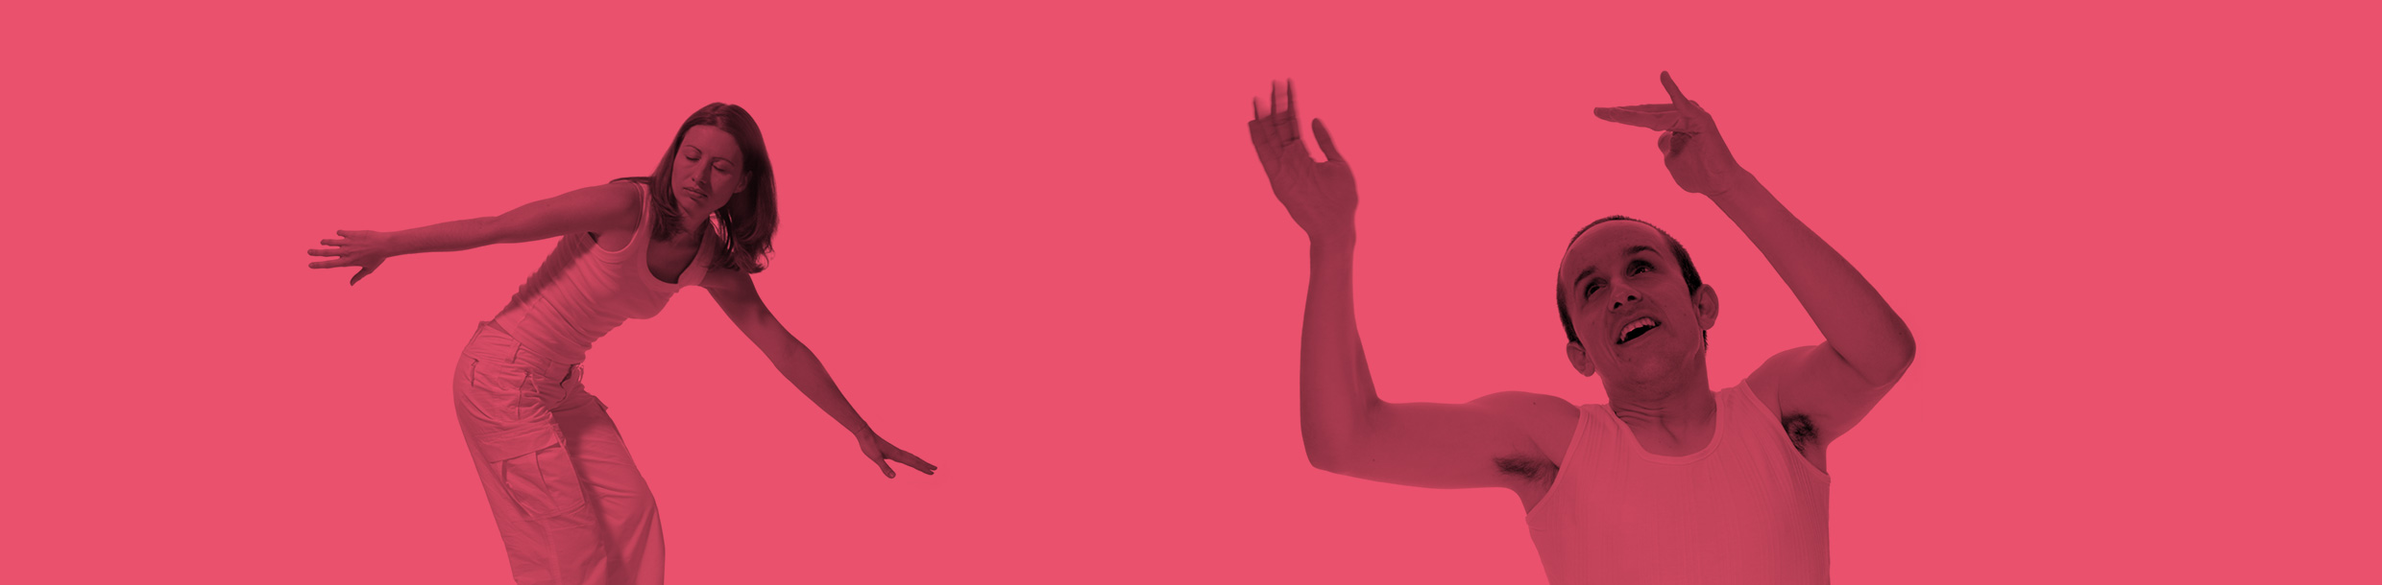
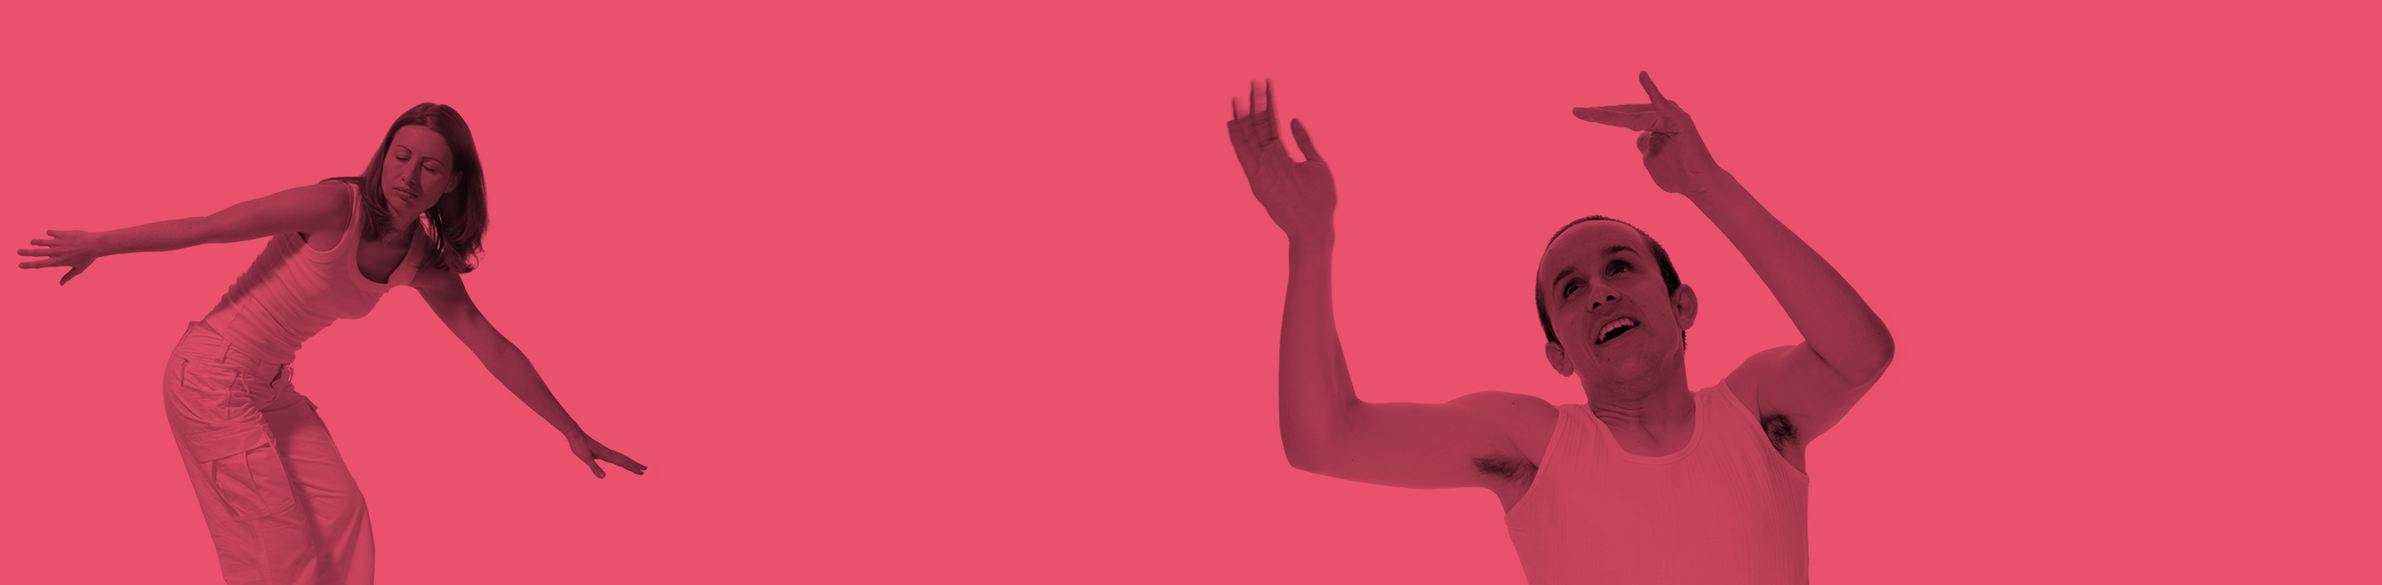
Replace header images

Changed region(s): [[0.0, 0.1557, 0.4036, 1.0], [0.4968, 0.1246, 0.8073, 1.0], [0.5589, 0.8098, 0.5899, 0.841]]

diff --git a/docs/css/main.css b/docs/css/main.css
@@ -1,1 +1,1 @@
-body{font-family:"CartographSansCF-DemiBold",Helvetica,Arial,sans-serif;line-height:1.25;color:#EA516D}@media (min-width: 1200px){body{line-height:1.5}}h1,h2{font-family:"CartographSansCF-Bold",Helvetica,Arial,sans-serif}h1{font-size:1.75rem;line-height:1.25}@media (min-width: 600px){h1{font-size:2.5rem;line-height:1.2}}h2,.h2{font-size:1.25rem;line-height:1}@media (min-width: 600px){h2,.h2{font-size:1.5rem}}@media (min-width: 1200px){h2,.h2{font-size:2rem}}h3,.h3{font-size:1rem;line-height:1.25}@media (min-width: 1200px){h3,.h3{font-size:1.5rem;line-height:1.33333}}.production p,.production li{font-family:"CartographSansCF-Regular",Helvetica,Arial,sans-serif}.production blockquote{margin-left:1em;margin-right:1em}.production h4{margin-bottom:0}.production h4+p{margin-top:0}.production__main>p:first-child{font-family:"CartographSansCF-DemiBold",Helvetica,Arial,sans-serif}@media (min-width: 1200px){.production__main>p:first-child{font-size:1.5rem}}.h3--nbm{margin-bottom:0}.h3--nbm a{border-bottom:0}.h3--nbm+p{margin-top:0}.light{font-family:"CartographSansCF-Regular",Helvetica,Arial,sans-serif}.small{font-size:.75rem;line-height:1.66667}a{padding-bottom:.1em;text-decoration:none;border-bottom:2px solid;color:#EA516D}a:hover{color:#000}.small a,.light a,a.small,a.light{border-bottom-width:1px}.t-2 a{color:#fff}.t-2 a:hover{color:#000}.t-3 a{color:#fff}.t-3 a:hover{color:#fff;border-color:#EA516D}blockquote{margin-left:0}.sitemap{margin-bottom:.5em}@media (min-width: 600px){.sitemap{margin-top:.5em}}img{border-radius:.3rem}body{margin:0;padding:0}.respect-line-breaks{white-space:pre-line}.list-reset{margin:0;padding:0;list-style-type:none}.btn{padding:.4em .75em;border-radius:.25em;font-weight:bold;text-decoration:none;display:inline-block;border-style:solid;border-width:2px;color:#fff;border-color:#EA516D;background-color:#EA516D}.btn:hover{color:#fff;background-color:#000;border-color:#000}.btn--alt{color:#EA516D;border-color:#EA516D;background-color:#fff}.btn--alt:hover{color:#fff;background-color:#EA516D;border-color:#EA516D}@media (min-width: 600px){.btn--donate{margin-top:5rem}}.t-2 .btn{color:#EA516D;background-color:#fff;border-color:#fff}.t-2 .btn:hover{color:#fff;background-color:#000;border-color:#000}.t-2 .btn--alt{color:#fff;border-color:#fff;background-color:#EA516D}.t-2 .btn--alt:hover{color:#EA516D;background-color:#fff;border-color:#fff}.t-3 .btn{border-color:#EA516D}.t-3 .btn:hover{color:#000;background-color:#fff;border-color:#fff}.t-3 .btn--alt{color:#fff;border-color:#fff;background-color:#000}.row{padding:1.25rem 2.5rem}@media (min-width: 1200px){.row{max-width:1200px;margin:0 auto}}.row--thick{padding:2.5rem 2.5rem 1.25rem}@media (min-width: 1200px){.row--thick{max-width:1200px;margin:0 auto}}.row--thin{padding:0;margin:0 2.5rem}@media (min-width: 1200px){.row--thin{max-width:1200px;margin:0 auto}}.t-1{color:#EA516D;background-color:#fff}.decorate{border-style:solid;border-width:0 0 70px 0;border-image-source:url("../assets/svg/border-coral.svg");border-image-slice:0 70 140 70;border-image-repeat:repeat}.t-2{color:#fff;background:#EA516D}@media (min-width: 1200px){.t-2{position:relative}.t-2:before{content:"";position:absolute;top:0;bottom:0;left:-9999px;right:0;border-left:9999px solid #EA516D;box-shadow:9999px 0 0 #EA516D;z-index:-1}}.t-3{color:#fff;background-color:#000}@media (min-width: 1200px){.t-3{position:relative}.t-3:before{content:"";position:absolute;top:0;bottom:0;left:-9999px;right:0;border-left:9999px solid #000;box-shadow:9999px 0 0 #000;z-index:-1}}#map{width:100%;height:500px;background-color:#000}.nav__toggle{background-color:#000;color:#fff;margin-left:-2.5rem;margin-right:-2.5rem;padding:.5rem 2.5rem;display:block;border-bottom:none;cursor:pointer}.nav__toggle svg{width:1em;height:1.5em;fill:#fff}.nav__toggle:hover{border-bottom:none}.nav__label{text-transform:uppercase;display:inline-block;vertical-align:top;padding-left:.5em;padding-top:.1em}.nav__menu{margin-top:1rem;font-size:1.5rem;line-height:2;font-family:"CartographSansCF-DemiBold",Helvetica,Arial,sans-serif}.nav__menu li{border-bottom:2px solid #EA516D}.nav__menu li:hover{background-color:#EA516D}@media (min-width: 900px){.nav__menu li:hover{background-color:transparent}}.nav__menu li:hover a{color:#fff}@media (min-width: 900px){.nav__menu li:hover a{border-bottom-color:#EA516D}}.nav__menu li.nav__item--last{border-bottom:none}.nav__menu a{border-bottom:none;display:inline-block;width:100%}.nav--hidden{display:none}.nav--visible{display:block}@media (min-width: 900px){.nav{background-color:#000;padding-top:1em;padding-bottom:1em;margin-left:-2.5rem;margin-right:-2.5rem}}@media (min-width: 900px) and (min-width: 1200px){.nav{position:relative}.nav:before{content:"";position:absolute;top:0;bottom:0;left:-9999px;right:0;border-left:9999px solid #000;box-shadow:9999px 0 0 #000;z-index:-1}}@media (min-width: 900px){.nav__toggle{display:none}.nav--hidden{display:block}.nav__menu{margin-top:0;font-size:1.25rem;line-height:1.5;margin-left:2.5rem;margin-right:2.5rem}.nav__menu li{border-bottom:none;display:inline-block;margin-right:1em}.nav__menu li a{color:#fff;border-bottom:2px solid #fff}}.nav--footer li{margin-right:.5em;margin-bottom:.5em}@media (min-width: 600px){.nav--footer li{display:inline-block}}a:hover .nav__label{color:#fff}.header{width:100%;background-position:center;background-repeat:no-repeat;background-size:cover;background-image:url("../assets/bg/home_m@1x.jpg")}.header .logo{width:13.5rem;margin-bottom:3rem;margin-top:.5rem}.header .logo path{fill:#fff}.header h1{text-transform:uppercase;margin-bottom:3rem}@media (min-width: 900px){.header p{max-width:60%}}@media (min-width: 1200px){.header p{max-width:25em}}@media (min-width: 600px){.header{background-image:url("../assets/bg/home_t@1x.jpg")}}@media (min-width: 900px){.header{background-image:url("../assets/bg/home_d@1x.jpg");min-height:500px}}.header__productions{background-image:url("../assets/bg/productions_m@1x.jpg")}@media (min-width: 600px){.header__productions{background-image:url("../assets/bg/productions_t@1x.jpg")}}@media (min-width: 900px){.header__productions{background-image:url("../assets/bg/productions_d@1x.jpg")}}.header__courses{background-image:url("../assets/bg/work-with-us_m@1x.jpg")}@media (min-width: 600px){.header__courses{background-image:url("../assets/bg/work-with-us_t@1x.jpg")}}@media (min-width: 900px){.header__courses{background-image:url("../assets/bg/work-with-us_d@1x.jpg")}}.header__workshops{background-image:url("../assets/bg/workshop_m@1x.jpg")}@media (min-width: 600px){.header__workshops{background-image:url("../assets/bg/workshop_t@1x.jpg")}}@media (min-width: 900px){.header__workshops{background-image:url("../assets/bg/workshop_d@1x.jpg")}}.header__contact{background-image:url("../assets/bg/contact_m@1x.jpg")}@media (min-width: 600px){.header__contact{background-image:url("../assets/bg/contact_t@1x.jpg")}}@media (min-width: 900px){.header__contact{background-image:url("../assets/bg/contact_d@1x.jpg")}}footer{background-size:100%}.social li{display:inline-block;margin-right:1em}.social__wrapper{border-bottom:none;text-align:center}.social__image{width:4em;height:4em;background-repeat:no-repeat;background-size:cover;display:inline-block}.social__image rect{fill:#fff}.social__image path{fill:#EA516D}.social__image:hover rect{fill:#000}.social__image:hover path{fill:#fff}.social__image--rss circle{fill:#EA516D}.social__image--rss:hover circle{fill:#fff}input,textarea{font-family:"CartographSansCF-DemiBold",Helvetica,Arial,sans-serif;border:2px solid #EA516D;padding:.5em;border-radius:.25em;margin-bottom:1em;display:inline-block;box-sizing:border-box;font-size:1.1rem}.form__full{width:100%}.form__half{width:48%;float:left}.form__half:nth-of-type(2n){float:right}@font-face{font-family:'CartographSansCF-Regular';src:url("../fonts/cartograph-sans-cf.eot");src:url("../fonts/cartograph-sans-cf.eot?#iefix") format("embedded-opentype"),url("../fonts/cartograph-sans-cf.woff2") format("woff2"),url("../fonts/cartograph-sans-cf.woff") format("woff"),url("../fonts/cartograph-sans-cf.ttf") format("truetype"),url("../fonts/cartograph-sans-cf.svg#youworkforthem") format("svg");font-weight:normal;font-style:normal}@font-face{font-family:'CartographSansCF-Bold';src:url("../fonts/cartograph-sans-cf-bold.eot");src:url("../fonts/cartograph-sans-cf-bold.eot?#iefix") format("embedded-opentype"),url("../fonts/cartograph-sans-cf-bold.woff2") format("woff2"),url("../fonts/cartograph-sans-cf-bold.woff") format("woff"),url("../fonts/cartograph-sans-cf-bold.ttf") format("truetype"),url("../fonts/cartograph-sans-cf-bold.svg#youworkforthem") format("svg");font-weight:normal;font-style:normal}@font-face{font-family:'CartographSansCF-DemiBold';src:url("../fonts/cartograph-sans-cf-demi-bold.eot");src:url("../fonts/cartograph-sans-cf-demi-bold.eot?#iefix") format("embedded-opentype"),url("../fonts/cartograph-sans-cf-demi-bold.woff2") format("woff2"),url("../fonts/cartograph-sans-cf-demi-bold.woff") format("woff"),url("../fonts/cartograph-sans-cf-demi-bold.ttf") format("truetype"),url("../fonts/cartograph-sans-cf-demi-bold.svg#youworkforthem") format("svg");font-weight:normal;font-style:normal}.grid{max-width:100%;margin-left:auto;margin-right:auto;margin-bottom:1rem}.grid:after{content:" ";display:block;clear:both}.grid__item img{max-width:100%;margin:0 auto;display:block}.grid__item .btn{display:block;text-align:center}@media (min-width: 600px){.grid--2 .grid__item{width:47.82609%;float:left;margin-right:4.34783%}.grid--2 .grid__item:nth-of-type(2n){width:47.82609%;float:right;margin-right:0}}@media (min-width: 600px){.grid--3 .grid__item{width:30.43478%;float:left;margin-right:4.34783%}.grid--3 .grid__item:nth-of-type(3n){width:30.43478%;float:right;margin-right:0}.grid--3 .grid__item:nth-of-type(3n+1){clear:both}}.grid--event .grid__item{clear:both;border-top:2px solid #EA516D;padding-top:1rem}.grid--event h3{margin-top:0em;margin-bottom:0}.grid--event p{margin-top:0;font-family:"CartographSansCF-Regular",Helvetica,Arial,sans-serif}.grid--event .event__info{width:100%;float:right;margin-right:0}@media (min-width: 600px){.grid--event .event__info{width:47.82609%;float:left;margin-right:4.34783%}}.grid--event .event__more{width:47.82609%;float:left;margin-right:4.34783%}@media (max-width: 599px){.grid--event .event__more{margin-bottom:1rem}}@media (min-width: 600px){.grid--event .event__more{width:21.73913%;float:left;margin-right:4.34783%}}.grid--event .event__book{text-transform:uppercase;width:47.82609%;float:right;margin-right:0}@media (min-width: 600px){.grid--event .event__book{width:21.73913%;float:right;margin-right:0}}@media (min-width: 600px){.grid__item--large-left{width:56.52174%;float:left;margin-right:4.34783%;margin-right:8.69565%}.grid__item--small-right{width:30.43478%;float:right;margin-right:0}}@media (min-width: 900px){.grid__item--small-left{width:47.82609%;float:left;margin-right:4.34783%}.grid__item--large-right{width:47.82609%;float:right;margin-right:0}}@media (min-width: 1200px){.grid__item--small-left{width:30.43478%;float:left;margin-right:4.34783%}.grid__item--large-right{width:65.21739%;float:right;margin-right:0}}@media (min-width: 600px){.grid .grid__item--footer-1{width:47.82609%;float:left;margin-right:4.34783%}.grid .grid__item--footer-2{width:47.82609%;float:right;margin-right:0}}@media (min-width: 1200px){.grid .grid__item--footer-1,.grid .grid__item--footer-2{width:30.43478%;float:left;margin-right:4.34783%}.grid .grid__item--footer-3{width:30.43478%;float:right;margin-right:0}}
+body{font-family:"CartographSansCF-DemiBold",Helvetica,Arial,sans-serif;line-height:1.25;color:#EA516D}@media (min-width: 1200px){body{line-height:1.5}}h1,h2{font-family:"CartographSansCF-Bold",Helvetica,Arial,sans-serif}h1{font-size:1.75rem;line-height:1.25}@media (min-width: 600px){h1{font-size:2.5rem;line-height:1.2}}h2,.h2{font-size:1.25rem;line-height:1}@media (min-width: 600px){h2,.h2{font-size:1.5rem}}@media (min-width: 1200px){h2,.h2{font-size:2rem}}h3,.h3{font-size:1rem;line-height:1.25}@media (min-width: 1200px){h3,.h3{font-size:1.5rem;line-height:1.33333}}.production p,.production li{font-family:"CartographSansCF-Regular",Helvetica,Arial,sans-serif}.production blockquote{margin-left:1em;margin-right:1em}.production h4{margin-bottom:0}.production h4+p{margin-top:0}.production__main>p:first-child{font-family:"CartographSansCF-DemiBold",Helvetica,Arial,sans-serif}@media (min-width: 1200px){.production__main>p:first-child{font-size:1.5rem}}.h3--nbm{margin-bottom:0}.h3--nbm a{border-bottom:0}.h3--nbm+p{margin-top:0}.light{font-family:"CartographSansCF-Regular",Helvetica,Arial,sans-serif}.small{font-size:.75rem;line-height:1.66667}a{padding-bottom:.1em;text-decoration:none;border-bottom:2px solid;color:#EA516D}a:hover{color:#000}.small a,.light a,a.small,a.light{border-bottom-width:1px}.t-2 a{color:#fff}.t-2 a:hover{color:#000}.t-3 a{color:#fff}.t-3 a:hover{color:#fff;border-color:#EA516D}blockquote{margin-left:0}.sitemap{margin-bottom:.5em}@media (min-width: 600px){.sitemap{margin-top:.5em}}img{border-radius:.3rem}body{margin:0;padding:0}.respect-line-breaks{white-space:pre-line}.list-reset{margin:0;padding:0;list-style-type:none}.btn{padding:.4em .75em;border-radius:.25em;font-weight:bold;text-decoration:none;display:inline-block;border-style:solid;border-width:2px;color:#fff;border-color:#EA516D;background-color:#EA516D}.btn:hover{color:#fff;background-color:#000;border-color:#000}.btn--alt{color:#EA516D;border-color:#EA516D;background-color:#fff}.btn--alt:hover{color:#fff;background-color:#EA516D;border-color:#EA516D}@media (min-width: 600px){.btn--donate{margin-top:5rem}}.t-2 .btn{color:#EA516D;background-color:#fff;border-color:#fff}.t-2 .btn:hover{color:#fff;background-color:#000;border-color:#000}.t-2 .btn--alt{color:#fff;border-color:#fff;background-color:#EA516D}.t-2 .btn--alt:hover{color:#EA516D;background-color:#fff;border-color:#fff}.t-3 .btn{border-color:#EA516D}.t-3 .btn:hover{color:#000;background-color:#fff;border-color:#fff}.t-3 .btn--alt{color:#fff;border-color:#fff;background-color:#000}.row{padding:1.25rem 2.5rem}@media (min-width: 1200px){.row{max-width:1200px;margin:0 auto}}.row--thick{padding:2.5rem 2.5rem 1.25rem}@media (min-width: 1200px){.row--thick{max-width:1200px;margin:0 auto}}.row--thin{padding:0;margin:0 2.5rem}@media (min-width: 1200px){.row--thin{max-width:1200px;margin:0 auto}}.t-1{color:#EA516D;background-color:#fff}.decorate{border-style:solid;border-width:0 0 70px 0;border-image-source:url("../assets/svg/border-coral.svg");border-image-slice:0 70 140 70;border-image-repeat:repeat}.t-2{color:#fff;background:#EA516D}@media (min-width: 1200px){.t-2{position:relative}.t-2:before{content:"";position:absolute;top:0;bottom:0;left:-9999px;right:0;border-left:9999px solid #EA516D;box-shadow:9999px 0 0 #EA516D;z-index:-1}}.t-3{color:#fff;background-color:#000}@media (min-width: 1200px){.t-3{position:relative}.t-3:before{content:"";position:absolute;top:0;bottom:0;left:-9999px;right:0;border-left:9999px solid #000;box-shadow:9999px 0 0 #000;z-index:-1}}#map{width:100%;height:500px;background-color:#000}.nav__toggle{background-color:#000;color:#fff;margin-left:-2.5rem;margin-right:-2.5rem;padding:.5rem 2.5rem;display:block;border-bottom:none;cursor:pointer}.nav__toggle svg{width:1em;height:1.5em;fill:#fff}.nav__toggle:hover{border-bottom:none}.nav__label{text-transform:uppercase;display:inline-block;vertical-align:top;padding-left:.5em;padding-top:.1em}.nav__menu{margin-top:1rem;font-size:1.5rem;line-height:2;font-family:"CartographSansCF-DemiBold",Helvetica,Arial,sans-serif}.nav__menu li{border-bottom:2px solid #EA516D}.nav__menu li:hover{background-color:#EA516D}@media (min-width: 900px){.nav__menu li:hover{background-color:transparent}}.nav__menu li:hover a{color:#fff}@media (min-width: 900px){.nav__menu li:hover a{border-bottom-color:#EA516D}}.nav__menu li.nav__item--last{border-bottom:none}.nav__menu a{border-bottom:none;display:inline-block;width:100%}.nav--hidden{display:none}.nav--visible{display:block}@media (min-width: 900px){.nav{background-color:#000;padding-top:1em;padding-bottom:1em;margin-left:-2.5rem;margin-right:-2.5rem}}@media (min-width: 900px) and (min-width: 1200px){.nav{position:relative}.nav:before{content:"";position:absolute;top:0;bottom:0;left:-9999px;right:0;border-left:9999px solid #000;box-shadow:9999px 0 0 #000;z-index:-1}}@media (min-width: 900px){.nav__toggle{display:none}.nav--hidden{display:block}.nav__menu{margin-top:0;font-size:1.25rem;line-height:1.5;margin-left:2.5rem;margin-right:2.5rem}.nav__menu li{border-bottom:none;display:inline-block;margin-right:1em}.nav__menu li a{color:#fff;border-bottom:2px solid #fff}}.nav--footer li{margin-right:.5em;margin-bottom:.5em}@media (min-width: 600px){.nav--footer li{display:inline-block}}a:hover .nav__label{color:#fff}.header{width:100%;background-position:center;background-repeat:no-repeat;background-size:cover;background-image:url("../assets/bg/home_m@1x.jpg")}.header .logo{width:13.5rem;margin-bottom:3rem;margin-top:.5rem}.header .logo path{fill:#fff}.header h1{text-transform:uppercase;margin-bottom:3rem}@media (min-width: 900px){.header p{max-width:60%}}@media (min-width: 1200px){.header p{max-width:25em}}@media (min-width: 600px){.header{background-image:url("../assets/bg/home_t@1x.jpg")}}@media (min-width: 900px){.header{background-image:url("../assets/bg/home_d@1x.jpg");min-height:500px}}.header__productions{background-image:url("../assets/bg/productions_m@1x.jpg")}@media (min-width: 600px){.header__productions{background-image:url("../assets/bg/productions_t@1x.jpg")}}@media (min-width: 900px){.header__productions{background-image:url("../assets/bg/productions_d@1x.jpg")}}.header__courses{background-image:url("../assets/bg/work-with-us_m@1x.jpg")}@media (min-width: 600px){.header__courses{background-image:url("../assets/bg/work-with-us_t@1x.jpg")}}@media (min-width: 900px){.header__courses{background-image:url("../assets/bg/work-with-us_d@1x.jpg")}}.header__workshops{background-image:url("../assets/bg/workshop_m@1x.jpg")}@media (min-width: 600px){.header__workshops{background-image:url("../assets/bg/workshop_t@1x.jpg")}}@media (min-width: 900px){.header__workshops{background-image:url("../assets/bg/workshop_d@1x.jpg")}}.header__contact{background-image:url("../assets/bg/contact_m@1x.jpg")}@media (min-width: 600px){.header__contact{background-image:url("../assets/bg/contact_t@1x.jpg")}}@media (min-width: 900px){.header__contact{background-image:url("../assets/bg/contact_d@1x.jpg")}}@media (min-width: 1200px){.header__events{background-image:url("../assets/bg/events_d@1x.jpg")}}footer{background-size:100%}.social li{display:inline-block;margin-right:1em}.social__wrapper{border-bottom:none;text-align:center}.social__image{width:4em;height:4em;background-repeat:no-repeat;background-size:cover;display:inline-block}.social__image rect{fill:#fff}.social__image path{fill:#EA516D}.social__image:hover rect{fill:#000}.social__image:hover path{fill:#fff}.social__image--rss circle{fill:#EA516D}.social__image--rss:hover circle{fill:#fff}input,textarea{font-family:"CartographSansCF-DemiBold",Helvetica,Arial,sans-serif;border:2px solid #EA516D;padding:.5em;border-radius:.25em;margin-bottom:1em;display:inline-block;box-sizing:border-box;font-size:1.1rem}.form__full{width:100%}.form__half{width:48%;float:left}.form__half:nth-of-type(2n){float:right}@font-face{font-family:'CartographSansCF-Regular';src:url("../fonts/cartograph-sans-cf.eot");src:url("../fonts/cartograph-sans-cf.eot?#iefix") format("embedded-opentype"),url("../fonts/cartograph-sans-cf.woff2") format("woff2"),url("../fonts/cartograph-sans-cf.woff") format("woff"),url("../fonts/cartograph-sans-cf.ttf") format("truetype"),url("../fonts/cartograph-sans-cf.svg#youworkforthem") format("svg");font-weight:normal;font-style:normal}@font-face{font-family:'CartographSansCF-Bold';src:url("../fonts/cartograph-sans-cf-bold.eot");src:url("../fonts/cartograph-sans-cf-bold.eot?#iefix") format("embedded-opentype"),url("../fonts/cartograph-sans-cf-bold.woff2") format("woff2"),url("../fonts/cartograph-sans-cf-bold.woff") format("woff"),url("../fonts/cartograph-sans-cf-bold.ttf") format("truetype"),url("../fonts/cartograph-sans-cf-bold.svg#youworkforthem") format("svg");font-weight:normal;font-style:normal}@font-face{font-family:'CartographSansCF-DemiBold';src:url("../fonts/cartograph-sans-cf-demi-bold.eot");src:url("../fonts/cartograph-sans-cf-demi-bold.eot?#iefix") format("embedded-opentype"),url("../fonts/cartograph-sans-cf-demi-bold.woff2") format("woff2"),url("../fonts/cartograph-sans-cf-demi-bold.woff") format("woff"),url("../fonts/cartograph-sans-cf-demi-bold.ttf") format("truetype"),url("../fonts/cartograph-sans-cf-demi-bold.svg#youworkforthem") format("svg");font-weight:normal;font-style:normal}.grid{max-width:100%;margin-left:auto;margin-right:auto;margin-bottom:1rem}.grid:after{content:" ";display:block;clear:both}.grid__item img{max-width:100%;margin:0 auto;display:block}.grid__item .btn{display:block;text-align:center}@media (min-width: 600px){.grid--2 .grid__item{width:47.82609%;float:left;margin-right:4.34783%}.grid--2 .grid__item:nth-of-type(2n){width:47.82609%;float:right;margin-right:0}}@media (min-width: 600px){.grid--3 .grid__item{width:30.43478%;float:left;margin-right:4.34783%}.grid--3 .grid__item:nth-of-type(3n){width:30.43478%;float:right;margin-right:0}.grid--3 .grid__item:nth-of-type(3n+1){clear:both}}.grid--event .grid__item{clear:both;border-top:2px solid #EA516D;padding-top:1rem}.grid--event h3{margin-top:0em;margin-bottom:0}.grid--event p{margin-top:0;font-family:"CartographSansCF-Regular",Helvetica,Arial,sans-serif}.grid--event .event__info{width:100%;float:right;margin-right:0}@media (min-width: 600px){.grid--event .event__info{width:47.82609%;float:left;margin-right:4.34783%}}.grid--event .event__more{width:47.82609%;float:left;margin-right:4.34783%}@media (max-width: 599px){.grid--event .event__more{margin-bottom:1rem}}@media (min-width: 600px){.grid--event .event__more{width:21.73913%;float:left;margin-right:4.34783%}}.grid--event .event__book{text-transform:uppercase;width:47.82609%;float:right;margin-right:0}@media (min-width: 600px){.grid--event .event__book{width:21.73913%;float:right;margin-right:0}}@media (min-width: 600px){.grid__item--large-left{width:56.52174%;float:left;margin-right:4.34783%;margin-right:8.69565%}.grid__item--small-right{width:30.43478%;float:right;margin-right:0}}@media (min-width: 900px){.grid__item--small-left{width:47.82609%;float:left;margin-right:4.34783%}.grid__item--large-right{width:47.82609%;float:right;margin-right:0}}@media (min-width: 1200px){.grid__item--small-left{width:30.43478%;float:left;margin-right:4.34783%}.grid__item--large-right{width:65.21739%;float:right;margin-right:0}}@media (min-width: 600px){.grid .grid__item--footer-1{width:47.82609%;float:left;margin-right:4.34783%}.grid .grid__item--footer-2{width:47.82609%;float:right;margin-right:0}}@media (min-width: 1200px){.grid .grid__item--footer-1,.grid .grid__item--footer-2{width:30.43478%;float:left;margin-right:4.34783%}.grid .grid__item--footer-3{width:30.43478%;float:right;margin-right:0}}

diff --git a/docs/workshops/index.html b/docs/workshops/index.html
@@ -129,17 +129,18 @@
   </div>
 </div>
 
-<div class="row">
-  <h2>Upcoming Events</h2>
-
-<div class="grid grid--event">
-  <div class="events">Events loading...</div>
+<div class="header header__events">
+  <div class="row">
+    <h2>Upcoming Events</h2>
+    <div class="grid grid--event">
+      <div class="events">Events loading...</div>
+    </div>
+  </div>
 </div>
 
 <script src="/touchdown/assets/moment.min.js"></script>
 <script src="/touchdown/assets/facebook.js"></script>
-
-</div>
+ 
 
 
     </main>

diff --git a/docs/index.html b/docs/index.html
@@ -120,17 +120,18 @@
   </div>
 </div>
 
-<div class="row">
-  <h2>Upcoming Events</h2>
-
-<div class="grid grid--event">
-  <div class="events">Events loading...</div>
+<div class="header header__events">
+  <div class="row">
+    <h2>Upcoming Events</h2>
+    <div class="grid grid--event">
+      <div class="events">Events loading...</div>
+    </div>
+  </div>
 </div>
 
 <script src="/touchdown/assets/moment.min.js"></script>
 <script src="/touchdown/assets/facebook.js"></script>
 
-</div>
 
 
 

diff --git a/_includes/events.html b/_includes/events.html
@@ -1,7 +1,10 @@
-<h2>Upcoming Events</h2>
-
-<div class="grid grid--event">
-  <div class="events">Events loading...</div>
+<div class="header header__events">
+  <div class="row">
+    <h2>Upcoming Events</h2>
+    <div class="grid grid--event">
+      <div class="events">Events loading...</div>
+    </div>
+  </div>
 </div>
 
 <script src="{{ site.baseurl }}/assets/moment.min.js"></script>

diff --git a/_sass/_header.sass b/_sass/_header.sass
@@ -63,3 +63,7 @@
       background-image: url("../assets/bg/contact_t@1x.jpg")
     +for-tablet-landscape-up
       background-image: url("../assets/bg/contact_d@1x.jpg")
+
+  &__events
+    +for-desktop-up
+      background-image: url("../assets/bg/events_d@1x.jpg")    

diff --git a/_layouts/home.html b/_layouts/home.html
@@ -28,9 +28,7 @@ layout: default
   </div>
 </div>
 
-<div class="row">
-  {% include events.html %}
-</div>
+{% include events.html %}
 
 
 {{ content }}

diff --git a/_layouts/workshops.html b/_layouts/workshops.html
@@ -49,6 +49,4 @@ layout: default
   </div>
 </div>
 
-<div class="row">
-  {% include events.html %}
-</div>
+{% include events.html %} 
